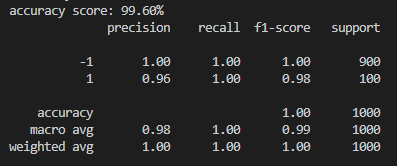
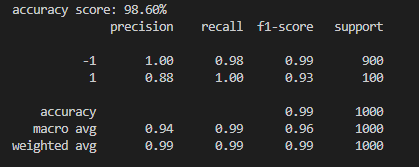
nn-1: change output to pre_input

diff --git a/Project 1/Part D/part_d.py b/Project 1/Part D/part_d.py
@@ -76,15 +76,17 @@ def transfer(activation):
 
 # Forward propagate input to a network output
 def forward_propagate(network, row):
-	inputs = row
-	for layer in network:
-		new_inputs = []
-		for neuron in layer:
-			activation = activate(neuron['weights'], inputs)
-			neuron['output'] = transfer(activation)
-			new_inputs.append(neuron['output'])
-		inputs = new_inputs
-	return inputs
+    inputs = row
+    pre_input = []
+    for layer in network:
+        new_inputs = []
+        for neuron in layer:
+            activation = activate(neuron['weights'], inputs)
+            neuron['output'] = transfer(activation)
+            new_inputs.append(neuron['output'])
+        pre_input = inputs
+        inputs = new_inputs
+    return inputs, pre_input
 
 # Calculate the derivative of an neuron output
 def transfer_derivative(output):
@@ -124,7 +126,7 @@ def update_weights(network, row, l_rate):
 def train_network(network, train, l_rate, n_epoch, n_outputs):
 	for _ in range(n_epoch):
 		for row in train:
-			_ = forward_propagate(network, row)
+			_, _ = forward_propagate(network, row)
 			expected = [0 for _ in range(n_outputs)]
 			expected[int(row[-1])] = 1
 			backward_propagate_error(network, expected)
@@ -138,13 +140,15 @@ def initialize_network(n_inputs, n_hidden, n_outputs):
     network.append(hidden_layer1)
     hidden_layer2 = [{'weights':[random.random() for i in range(n_hidden + 1)]} for i in range(n_hidden2)]
     network.append(hidden_layer2)
-    output_layer = [{'weights':[random.random() for i in range(n_hidden2 + 1)]} for i in range(n_outputs)]
+    hidden_layer_pre_output = [{'weights':[random.random() for i in range(n_hidden2 + 1)]} for i in range(n_outputs)]
+    network.append(hidden_layer_pre_output)
+    output_layer = [{'weights':[random.random() for i in range(n_outputs + 1)]} for i in range(n_outputs)]
     network.append(output_layer)
     return network
 
 # Make a prediction with a network
 def predict(network, row):
-	outputs = forward_propagate(network, row)
+	outputs, _ = forward_propagate(network, row)
 	return outputs.index(max(outputs))
 
 # Backpropagation Algorithm With Stochastic Gradient Descent
@@ -316,19 +320,18 @@ if __name__ == "__main__":
     network = initialize_network(n_inputs, n_hidden, n_outputs)
     train_network(network, dataset_train, l_rate, n_epoch, n_outputs)
     
-    
     data = []
     for row in dataset_train:
-        outputs = forward_propagate(network, row)
-        data.append([outputs[0], outputs[1], 1 if row[2] == 1 else -1])
+        _, pre_input = forward_propagate(network, row)
+        data.append([pre_input[0], pre_input[1], 1 if row[2] == 1 else -1])
 
     df_train_backpropagation = pd.DataFrame(data, columns = ['node_1', 'node_2', 'label'])
     df_train_backpropagation.to_csv('out_train_backpropagation.csv', index=False)  
 
     data = []
     for row in dataset_test:
-        outputs = forward_propagate(network, row)
-        data.append([outputs[0], outputs[1], 1 if row[2] == 1 else -1])
+        _, pre_input = forward_propagate(network, row)
+        data.append([pre_input[0], pre_input[1], 1 if row[2] == 1 else -1])
 
 
     df_test_backpropagation = pd.DataFrame(data, columns = ['node_1', 'node_2', 'label'])
